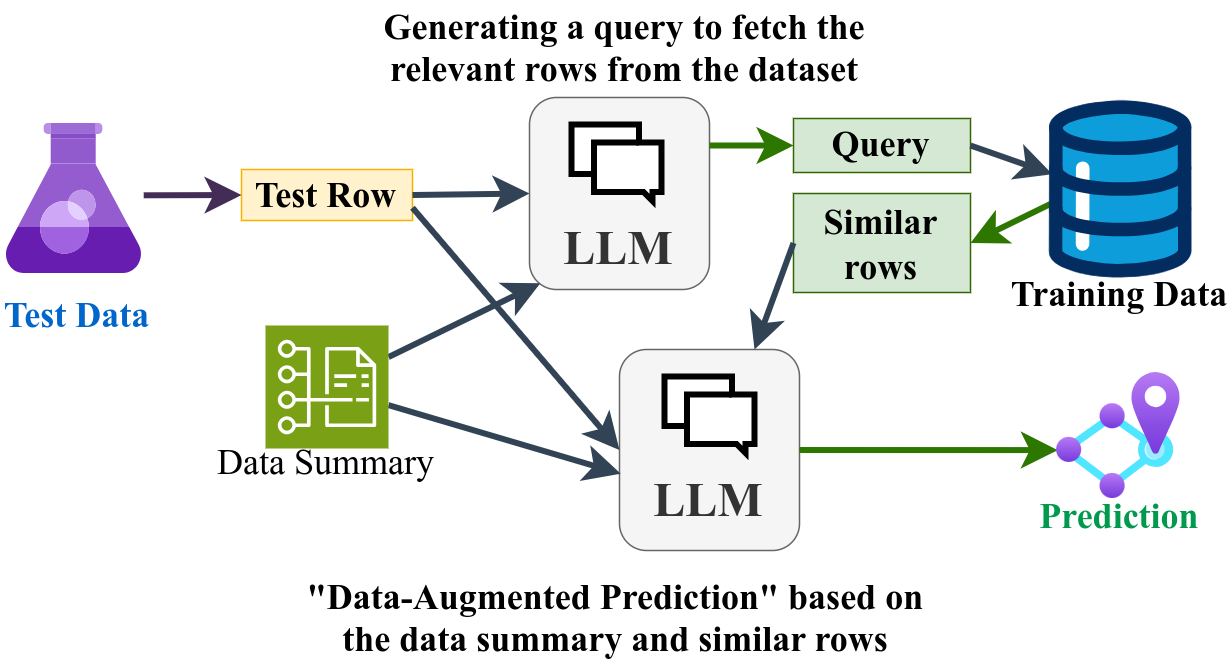
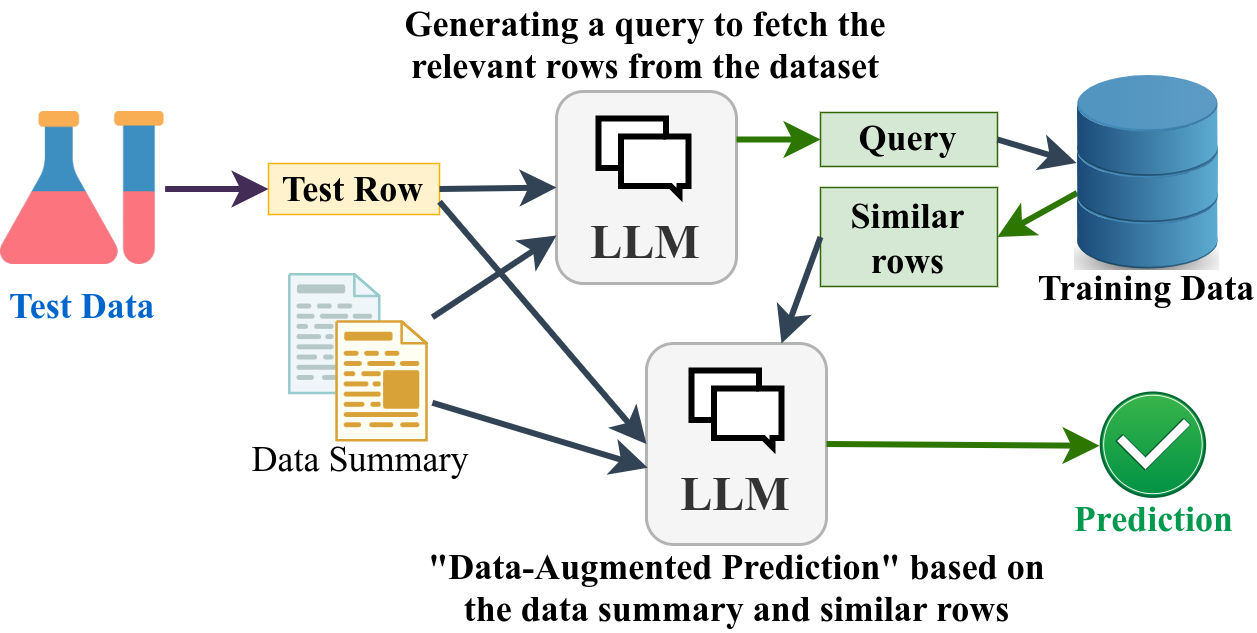
Updated flowcharts

Changed region(s): [[0.0, 0.0, 1.0, 0.9905], [0.0, 0.4502, 0.1236, 0.5103]]

diff --git a/README.md b/README.md
@@ -77,6 +77,11 @@ Use it at your own risk. The code is provided as is without any guarantees or wa
 
 ## :globe_with_meridians: Acknowledgements
 - Special thanks to **Groq** (https://groq.com/) for a fast a inference of Llama 3.1
+- Image Credits:
+	- Database: https://pixabay.com/vectors/database-data-storage-cylinder-149760/
+	- Data Summary: https://pixabay.com/vectors/documents-paper-text-icon-149799/
+	- Test Data: https://pixabay.com/vectors/flask-test-tube-icon-medical-5817899/
+	- Checkmark: https://pixabay.com/vectors/confirmation-symbol-icon-green-1152155/
 
 
 ## :email: Contact
